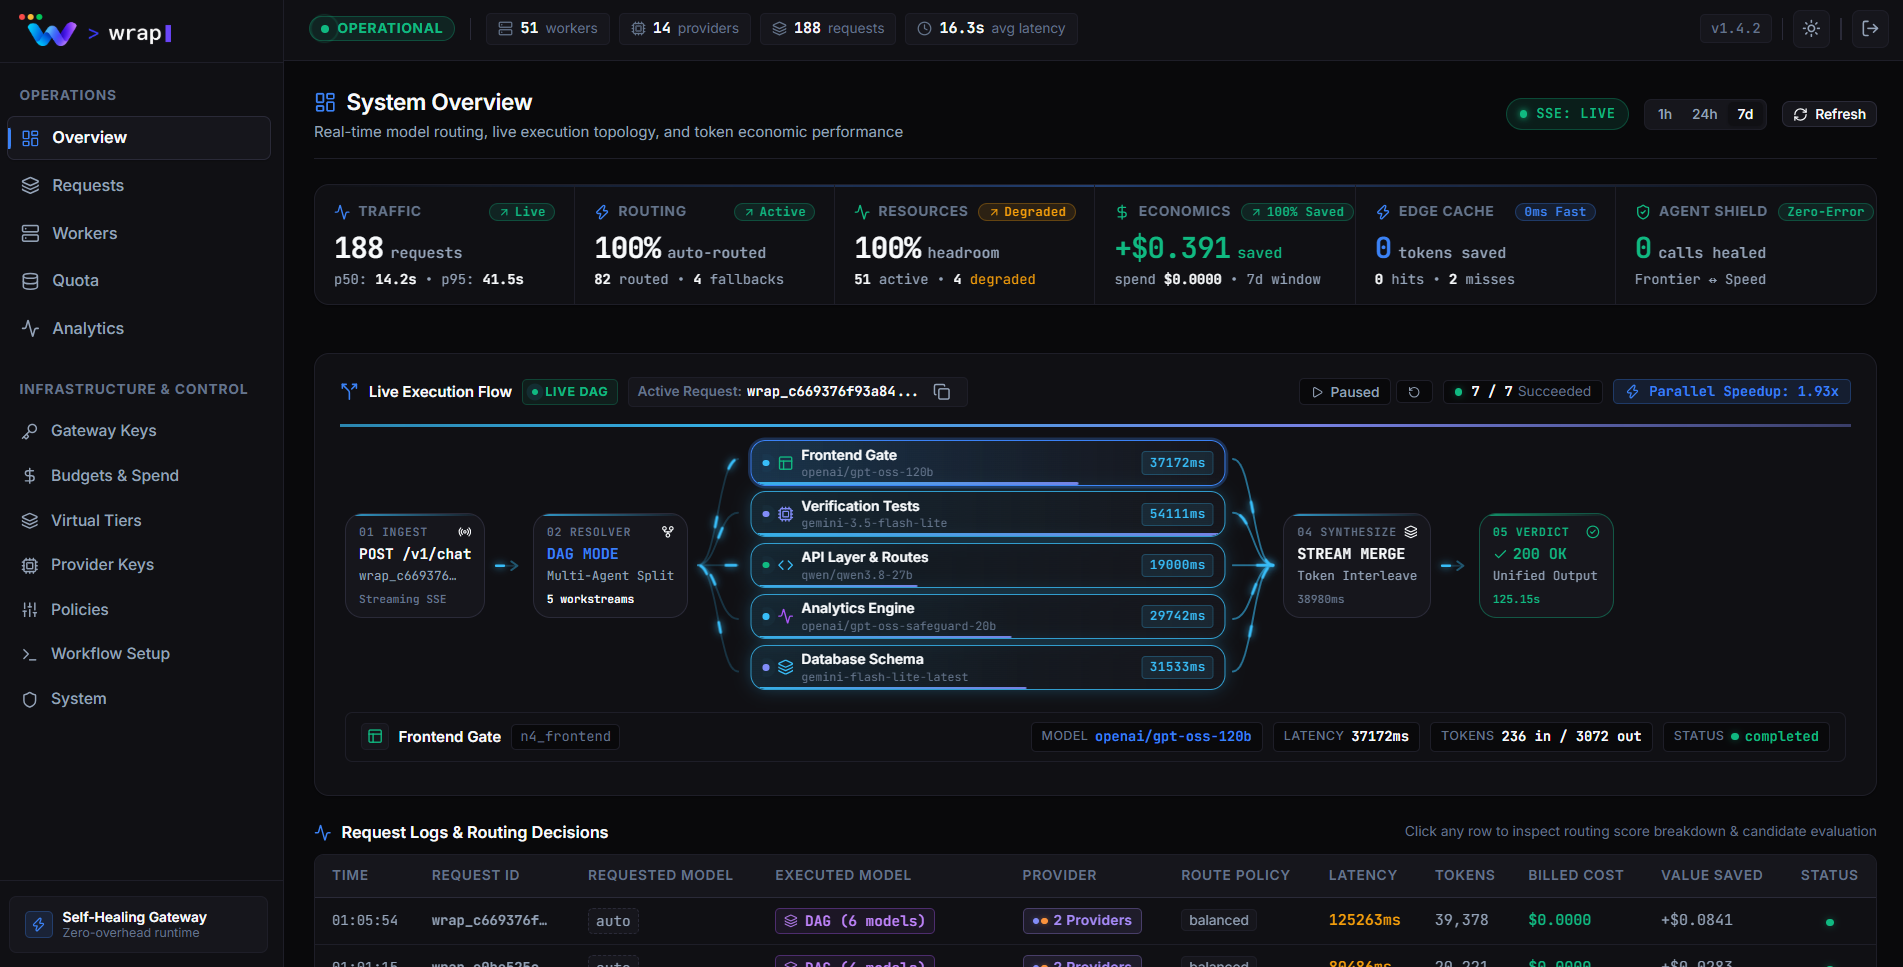
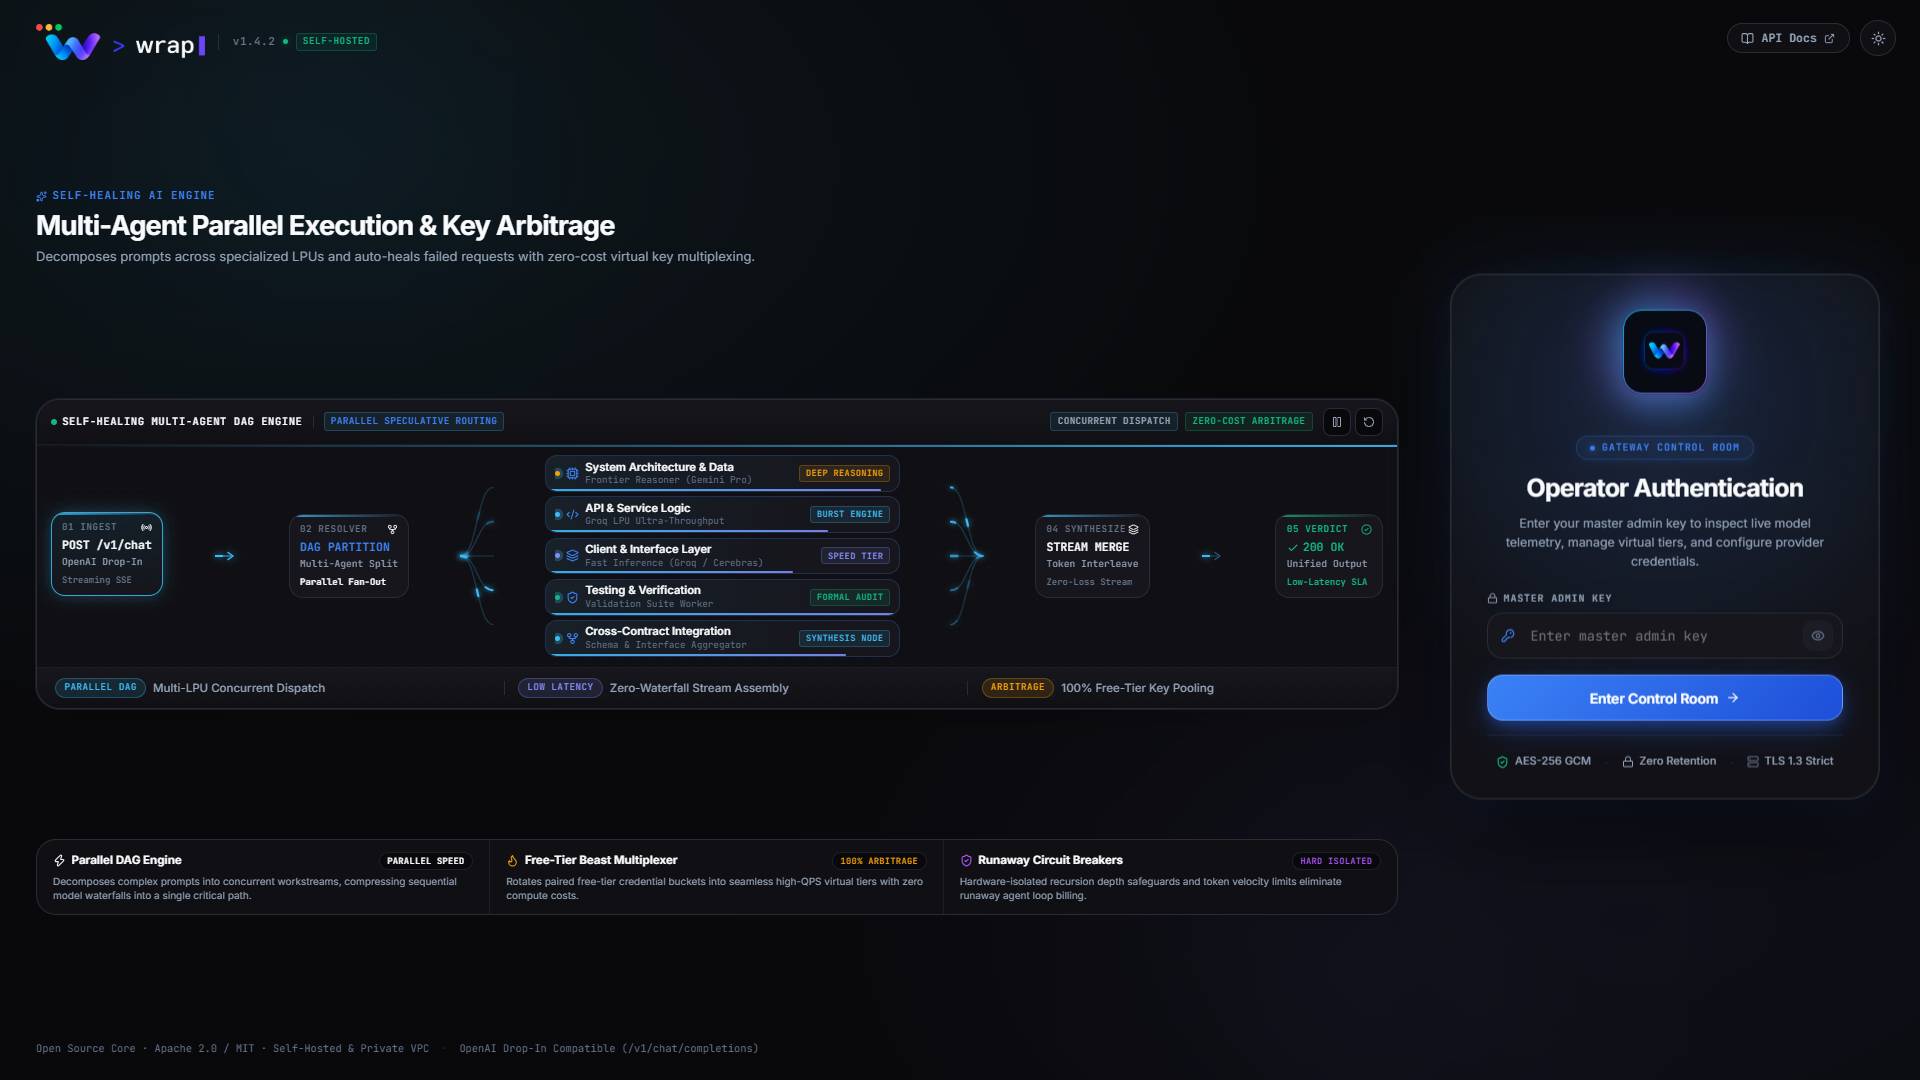
docs: arrange visual asset pipeline and synchronize enterprise README

diff --git a/README.md b/README.md
@@ -146,18 +146,26 @@ Enterprise identity controls powered by Fernet AES-128-CBC encryption for provid
 
 ---
 
-### 5. Virtual Model Tiers & Spend Governance
-Organize dozens of upstream models into cohesive, policy-driven virtual endpoints:
+### 5. Virtual Model Tiers & Multi-Provider Cascades
+Route client requests to high-level virtual aliases with autonomous QoS prioritization, load balancing, and transparent failover:
+- `fast-tier`: Ultra-low TTFT and high-throughput streaming inference across Groq LPUs and Gemini Flash.
+- `reasoning-tier`: Deep reasoning, complex logic, and high benchmark capability (GPT-OSS-120B, Gemini 2.5 Pro, Deep Research).
+- `economy-tier`: Maximum quota headroom with lightweight token-efficient models ($0 compute cost).
+- `coding-tier`: Syntax, code-completion, and multi-step tool execution optimized models (Qwen, Sonnet, Gemini Flash).
+- `ensemble-consensus`: High-speed primary generation verified concurrently by a deep reasoning model for frontier accuracy.
 - `auto`: Automatically select the optimal healthy worker based on cost, latency, and current quota availability.
-- `tier-deep-reasoning`: High-intelligence models for complex architectural design and mathematical analysis.
-- `tier-fast-code`: Ultra-low latency inference engines tailored for autocomplete and real-time generation.
-- **Budget Guardrails:** Set per-key daily, weekly, or monthly soft-warnings and hard-stops.
+- **Spend Governance & Guardrails:** Hardware-isolated recursion safeguards, budget circuit breakers, and rate-limit virtualizers eliminate runaway agent billing.
 
-<!-- MODEL TIERS & BUDGETS PLACEHOLDER -->
+<!-- MODEL TIERS & BUDGETS VISUALS -->
 <p align="center">
-  <img src="docs/assets/model-tiers-budgets.png" alt="Virtual Model Tiers and Spend Budgets" width="100%" style="border-radius: 8px; border: 1px solid #1e293b;" />
+  <img src="docs/assets/model-tiers-budgets.png" alt="Autonomous Virtual Model Tiers & Priority Cascades" width="100%" style="border-radius: 8px; border: 1px solid #1e293b;" />
 </p>
-<p align="center"><em>Figure 5: Policy configuration — Virtual tier routing, budget allocations, and model capability routing.</em></p>
+<p align="center"><em>Figure 5a: Autonomous Virtual Tiers — Fast LPU Tier (36 workers online) and Frontier Reasoning Tier (15 workers online) with dynamic multi-provider fallback cascades.</em></p>
+
+<p align="center">
+  <img src="docs/assets/model-tiers-cascades.png" alt="Economy, Code & Consensus Virtual Tiers" width="100%" style="border-radius: 8px; border: 1px solid #1e293b;" />
+</p>
+<p align="center"><em>Figure 5b: Autonomous Virtual Tiers — Economy Tier (37 workers online), Code Tier (12 workers online), and Dual-Model Consensus Tier (42 workers online).</em></p>
 
 ---
 
@@ -167,11 +175,11 @@ Every provider credential spins up an isolated worker node within WRAP’s inter
 - **Exponential circuit breakers:** Workers experiencing 429s or 5xx errors are quarantined and reintroduced progressively.
 - **Real-time health probes:** Automated background testing of provider credentials every 60 seconds.
 
-<!-- WORKER TOPOLOGY PLACEHOLDER -->
+<!-- WORKER TOPOLOGY VISUAL -->
 <p align="center">
   <img src="docs/assets/worker-topology.png" alt="Worker Topology & Live Health Matrix" width="100%" style="border-radius: 8px; border: 1px solid #1e293b;" />
 </p>
-<p align="center"><em>Figure 6: Real-time worker grid displaying live state, concurrency, latency, and error tracking per worker node.</em></p>
+<p align="center"><em>Figure 6: Real-time computational worker grid displaying live state, concurrency, latency, and error tracking per worker node across 14 providers.</em></p>
 
 ---
 
@@ -179,16 +187,20 @@ Every provider credential spins up an isolated worker node within WRAP’s inter
 
 WRAP normalizes provider-specific protocols into the standard OpenAI v1 schema.
 
-| Provider | Model / Endpoint | `/v1/chat/completions` | Stream (SSE) | Tool Calling | Vision | Auto-Fallback | Free-Tier Striping |
+| Provider | Supported Models & Silicon | `/v1/chat/completions` | Stream (SSE) | Tool Calling | Vision | Auto-Fallback | Free-Tier Striping |
 | :--- | :--- | :---: | :---: | :---: | :---: | :---: | :---: |
-| **Groq LPU** | `llama-3.3-70b-versatile`, `mixtral-8x7b-32768` | ✅ | ✅ | ✅ | ✅ | ✅ | ✅ |
-| **Cerebras** | `llama3.1-8b`, `llama3.1-70b` | ✅ | ✅ | ✅ | ❌ | ✅ | ✅ |
-| **Google Gemini** | `gemini-1.5-pro`, `gemini-2.0-flash` | ✅ | ✅ | ✅ | ✅ | ✅ | ✅ |
-| **OpenAI** | `gpt-4o`, `gpt-4o-mini`, `o1`, `o3-mini` | ✅ | ✅ | ✅ | ✅ | ✅ | ✅ |
-| **Anthropic** | `claude-3-7-sonnet`, `claude-3-5-haiku` | ✅ | ✅ | ✅ | ✅ | ✅ | ✅ |
-| **DeepSeek** | `deepseek-chat`, `deepseek-reasoner` | ✅ | ✅ | ✅ | ❌ | ✅ | ✅ |
+| **Google Gemini** | `gemini-2.5-pro`, `gemini-2.5-flash`, `gemini-3.1-flash-lite`, `deep-research` | ✅ | ✅ | ✅ | ✅ | ✅ | ✅ |
+| **Groq LPU** | `llama-3.3-70b-versatile`, `qwen/qwen3.8-27b`, `mixtral-8x7b` | ✅ | ✅ | ✅ | ✅ | ✅ | ✅ |
+| **Cerebras** | `llama3.3-70b`, `llama3.1-8b` | ✅ | ✅ | ✅ | ❌ | ✅ | ✅ |
+| **OpenAI** | `gpt-4o`, `gpt-4o-mini`, `o1`, `o3-mini`, `openai/gpt-oss-120b` | ✅ | ✅ | ✅ | ✅ | ✅ | ✅ |
+| **Anthropic** | `claude-3-7-sonnet`, `claude-3-5-haiku`, `claude-3-opus` | ✅ | ✅ | ✅ | ✅ | ✅ | ✅ |
+| **DeepSeek** | `deepseek-chat`, `deepseek-reasoner`, `deepseek-r1` | ✅ | ✅ | ✅ | ❌ | ✅ | ✅ |
 | **Ollama / Local** | `llama3`, `deepseek-r1`, `qwen2.5-coder` | ✅ | ✅ | ✅ | ✅ | ✅ | ✅ |
-| **Mistral AI** | `mistral-large`, `codestral` | ✅ | ✅ | ✅ | ❌ | ✅ | ✅ |
+| **Mistral AI** | `mistral-large`, `codestral`, `open-mistral` | ✅ | ✅ | ✅ | ❌ | ✅ | ✅ |
+| **Together AI** | `meta-llama/Llama-3-70b`, `deepseek-ai/DeepSeek-V3` | ✅ | ✅ | ✅ | ❌ | ✅ | ✅ |
+| **SambaNova** | `Meta-Llama-3.1-405B-Instruct`, `Llama-3.1-70B` | ✅ | ✅ | ✅ | ❌ | ✅ | ✅ |
+| **Perplexity** | `sonar-pro`, `sonar-reasoning` | ✅ | ✅ | ❌ | ❌ | ✅ | ✅ |
+| **xAI** | `grok-2`, `grok-2-mini` | ✅ | ✅ | ✅ | ✅ | ✅ | ✅ |
 
 ---
 
@@ -202,7 +214,7 @@ The quickest way to launch WRAP along with PostgreSQL 16, backend API, and React
 
 ```bash
 # 1. Clone the repository
-git clone https://github.com/your-org/wrap.git
+git clone https://github.com/ajayraj30002/wrap.git
 cd wrap
 
 # 2. Configure master key & database credentials
@@ -328,7 +340,7 @@ const wrap = new OpenAI({
 
 async function run() {
   const stream = await wrap.chat.completions.create({
-    model: "tier-fast-code",
+    model: "fast-tier", // or "coding-tier", "reasoning-tier", "auto"
     messages: [{ role: "user", content: "Write a debounce function in TypeScript." }],
     stream: true,
   });

diff --git a/docs/assets/README.md b/docs/assets/README.md
@@ -7,8 +7,10 @@ Place your visual assets (screenshots, screen recordings, GIFs) in this director
 | `dashboard-overview.png` | Main Hero: Enterprise Control Room Overview dashboard | High-res PNG | 1920 × 1080 (16:9) |
 | `dag-pipeline.gif` | Live DAG execution pipeline showing real-time workstream routing & striping | Animated GIF / WebP | 1280 × 720 or 1600 × 900 |
 | `analytics-dashboard.png` | Deep telemetry, cost burn-down, latency P95/P99 charts | High-res PNG | 1920 × 1080 (16:9) |
-| `operator-login.png` | Operator Security Enclave / Login interface with crest | High-res PNG | 1920 × 1080 (16:9) |
-| `model-tiers-budgets.png` | Virtual model tiers, budget limits & policy management | High-res PNG | 1920 × 1080 (16:9) |
-| `worker-topology.png` | Live worker grid, health monitors & provider credentials | High-res PNG | 1920 × 1080 (16:9) |
+| `operator-login.png` | Operator Security Enclave / Login interface with glowing squircle crest | High-res PNG | 1920 × 1080 (16:9) |
+| `model-tiers-budgets.png` | Autonomous Virtual Model Tiers: Fast LPU & Frontier Reasoning Cascades | High-res PNG | 1920 × 1080 (16:9) |
+| `model-tiers-cascades.png` | Virtual Tiers: Economy, Code & Dual-Model Consensus Cascades | High-res PNG | 1920 × 1080 (16:9) |
+| `worker-topology.png` | Live computational worker grid, health monitors & provider credentials | High-res PNG | 1920 × 1080 (16:9) |
+| `workers.png` | Active Computational Workers cluster state (alias for worker-topology) | High-res PNG | 1920 × 1080 (16:9) |
 
 > **Note:** WRAP's header brand crest automatically loads directly from `frontend/public/wrap-app-icon.png`.
